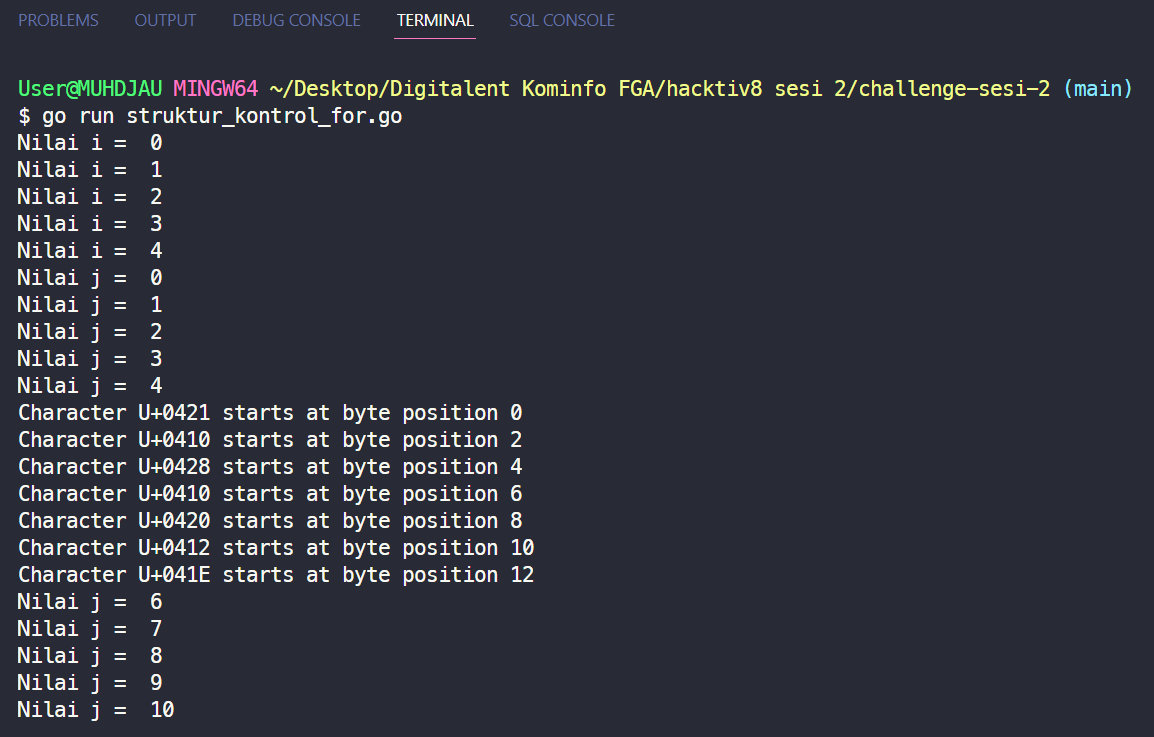
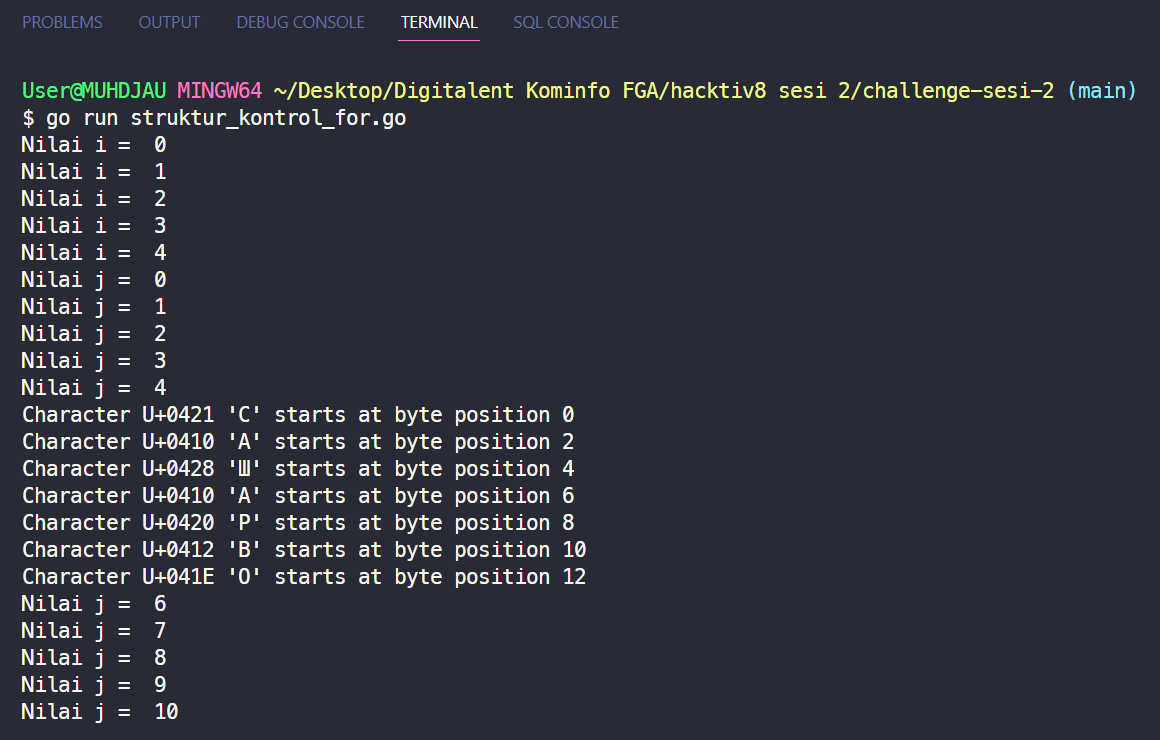
Small-fix Commit

diff --git a/struktur_kontrol_for.go b/struktur_kontrol_for.go
@@ -14,7 +14,7 @@ func main() {
 	}
 
 	for idx, val := range "САШАРВО" {
-		fmt.Printf("Character %U starts at byte position %d \n", val, idx)
+		fmt.Printf("Character %U '%c' starts at byte position %d \n", val, val, idx)
 	}
 
 	for j := 6; j <= 10; j++ {
